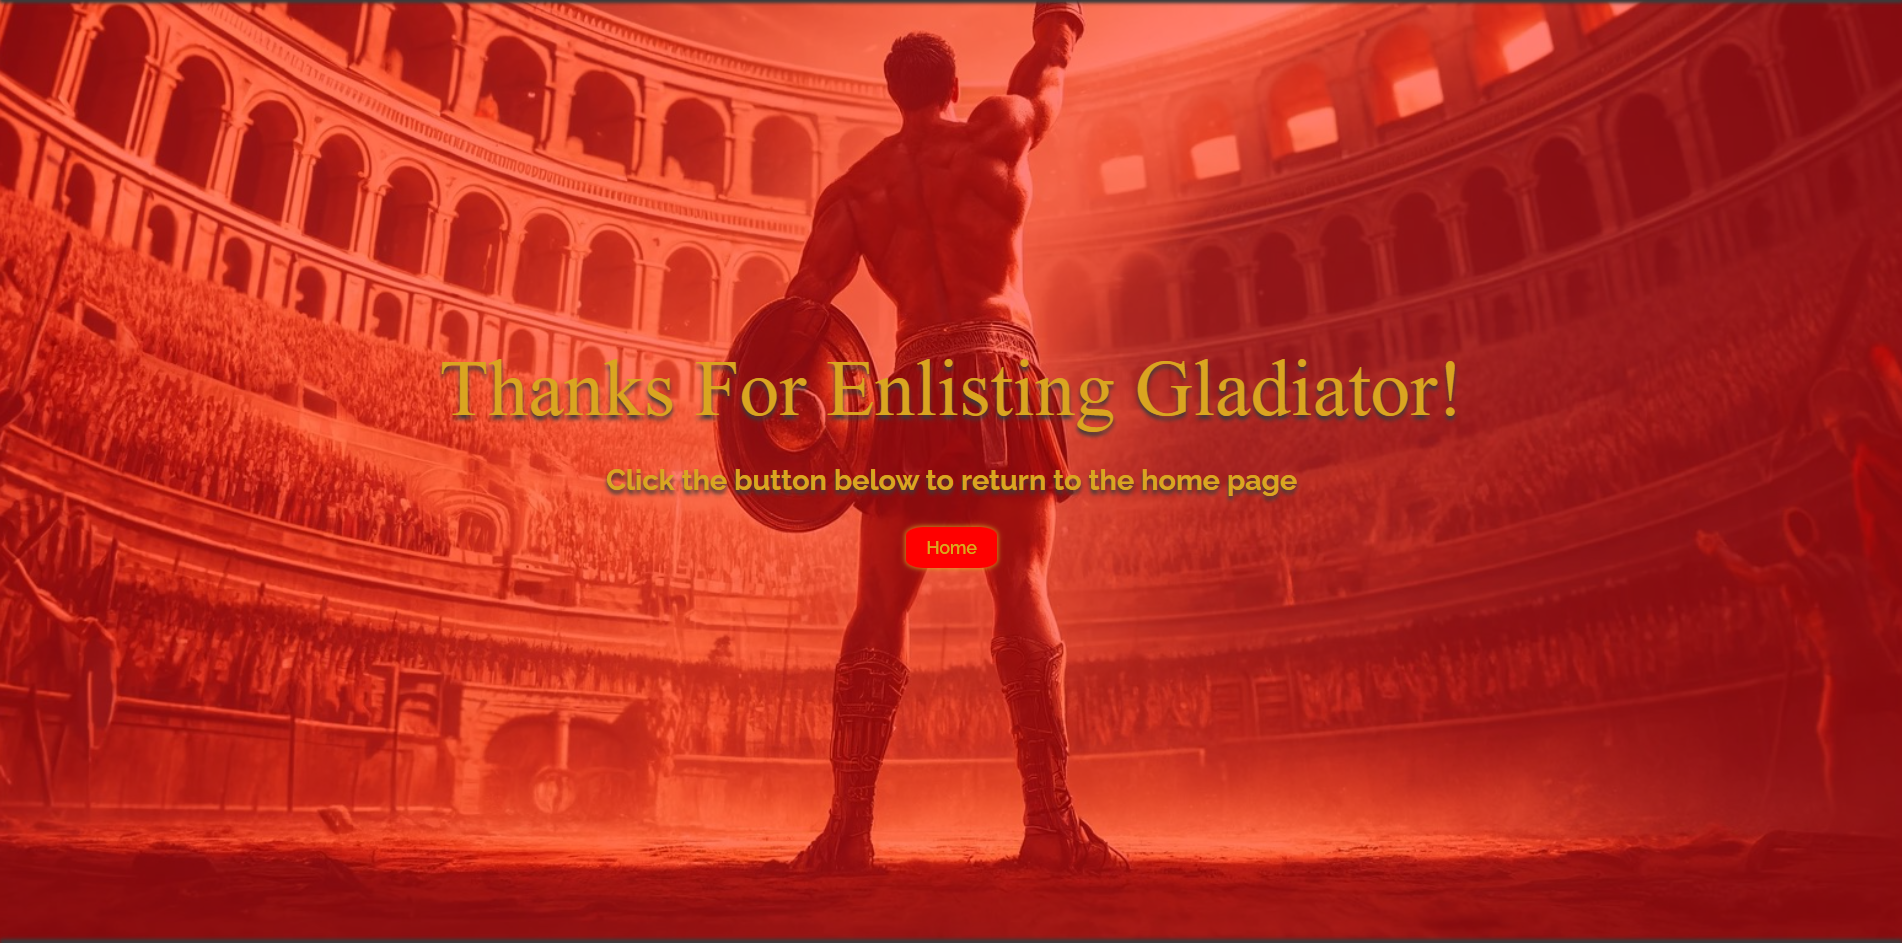
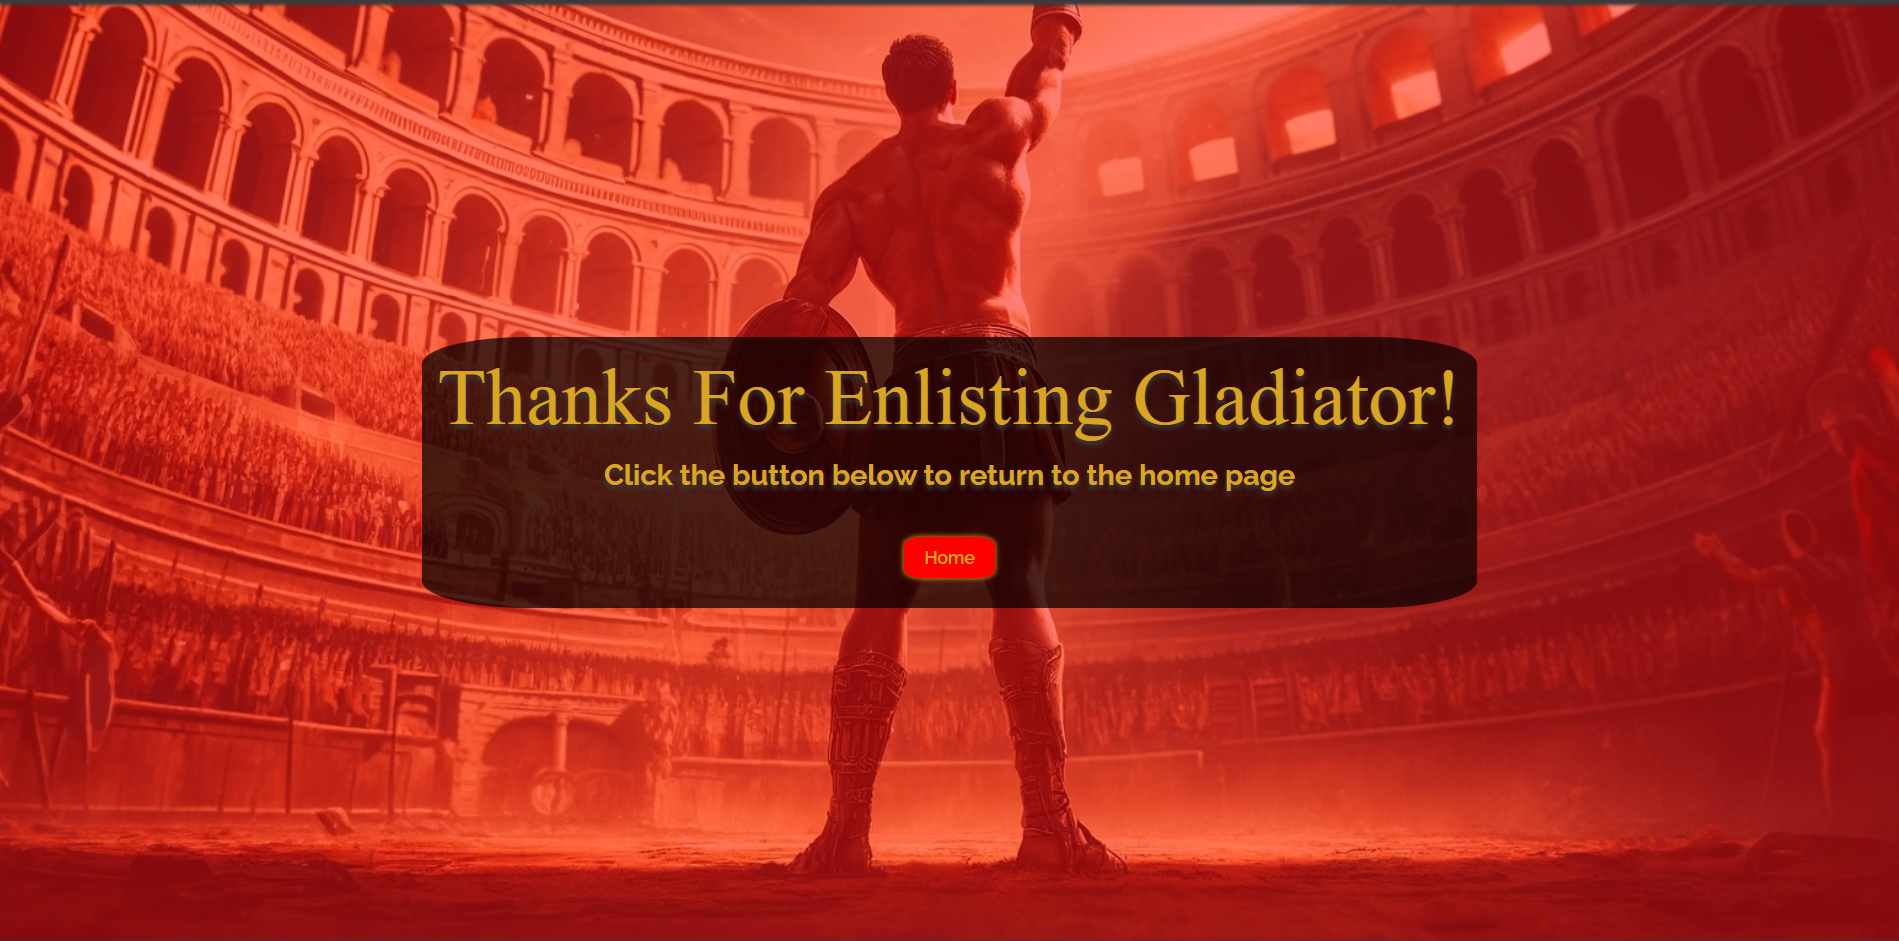
Add responsiveness to error page and new image to readme

diff --git a/assets/css/style.css b/assets/css/style.css
@@ -399,7 +399,7 @@ main {
     width: 100%;
     flex-direction: column;
     height: 100%;
-    font-size: 2em;
+    font-size: 1em;
 }
 
 #error h1, p{
@@ -528,6 +528,11 @@ main {
     
     #thank-you h3 {
         font-size: 1.8em;
+    }
+
+    /* Error page styling */
+    #error {
+        font-size: 2em;
     }
 }
 
